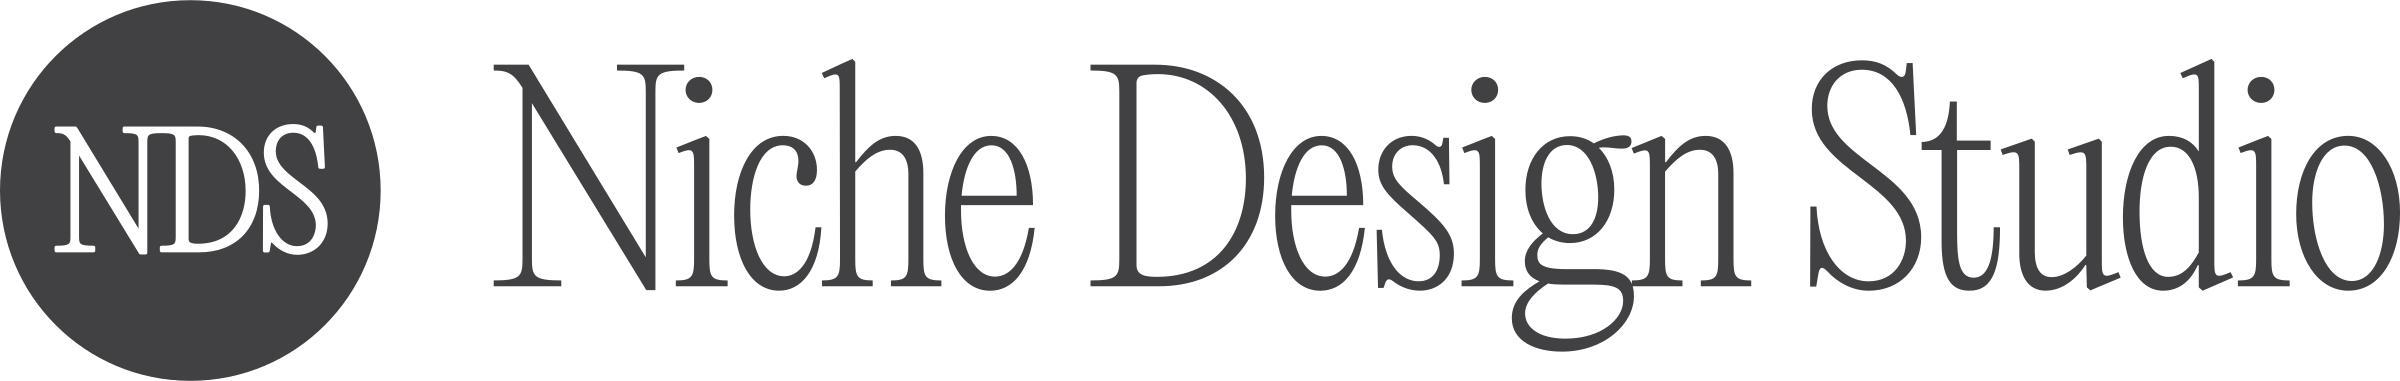
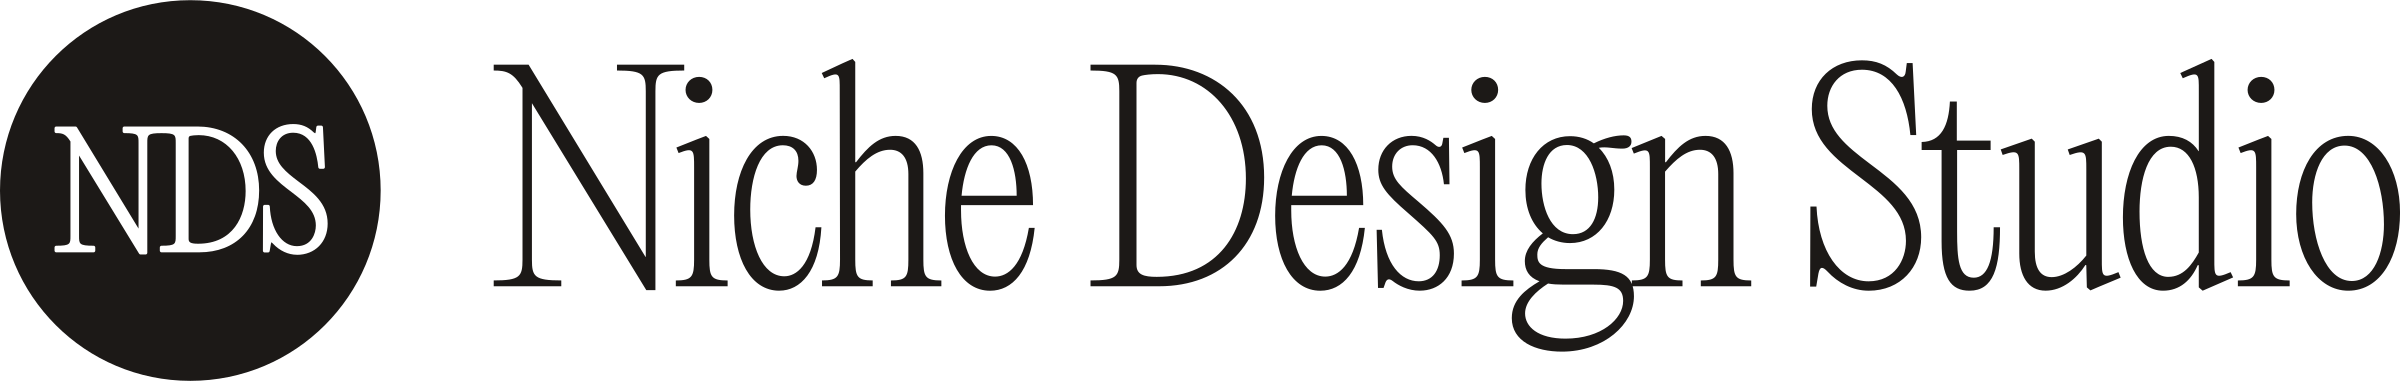
Auto-commit changes

Changed region(s): [[0.1875, 0.1444, 1.0, 0.9239], [0.0, 0.0, 0.1562, 1.0], [0.5938, 0.2021, 0.625, 0.2598]]

diff --git a/app/brand/page.jsx b/app/brand/page.jsx
@@ -163,9 +163,9 @@ const BRAND = {
     },
     {
       category: "lockup", variant: "Black on Light",
-      bg: "#fafaf9", file: "/nds-circle-logo-black-2.svg",
+      bg: "#fafaf9", file: "/nds-circle-logo-black-1c.svg",
       downloads: [
-        { ext: "SVG", file: "/nds-circle-logo-black-2.svg" },
+        { ext: "SVG", file: "/nds-circle-logo-black-1c.svg" },
         { ext: "PNG", file: "/brand/raster/lockup-light-black.png" },
         { ext: "JPG", file: "/brand/raster/lockup-light-black.jpg" },
       ],
